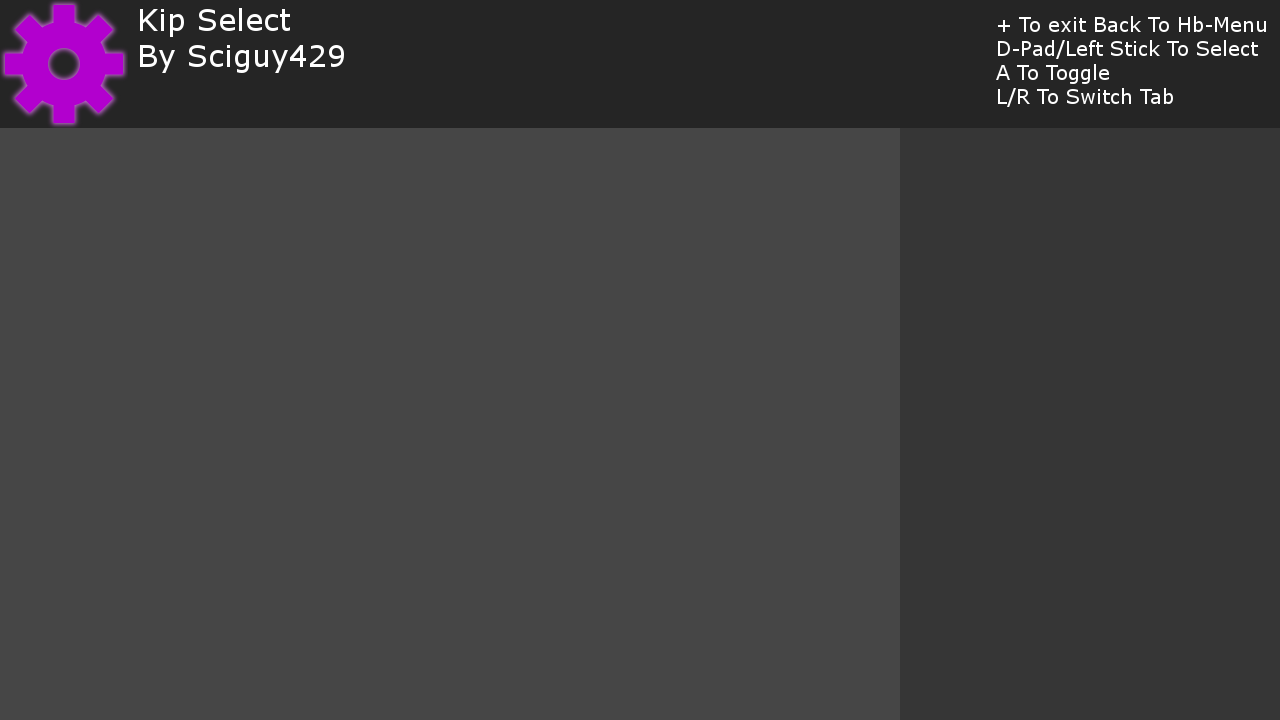
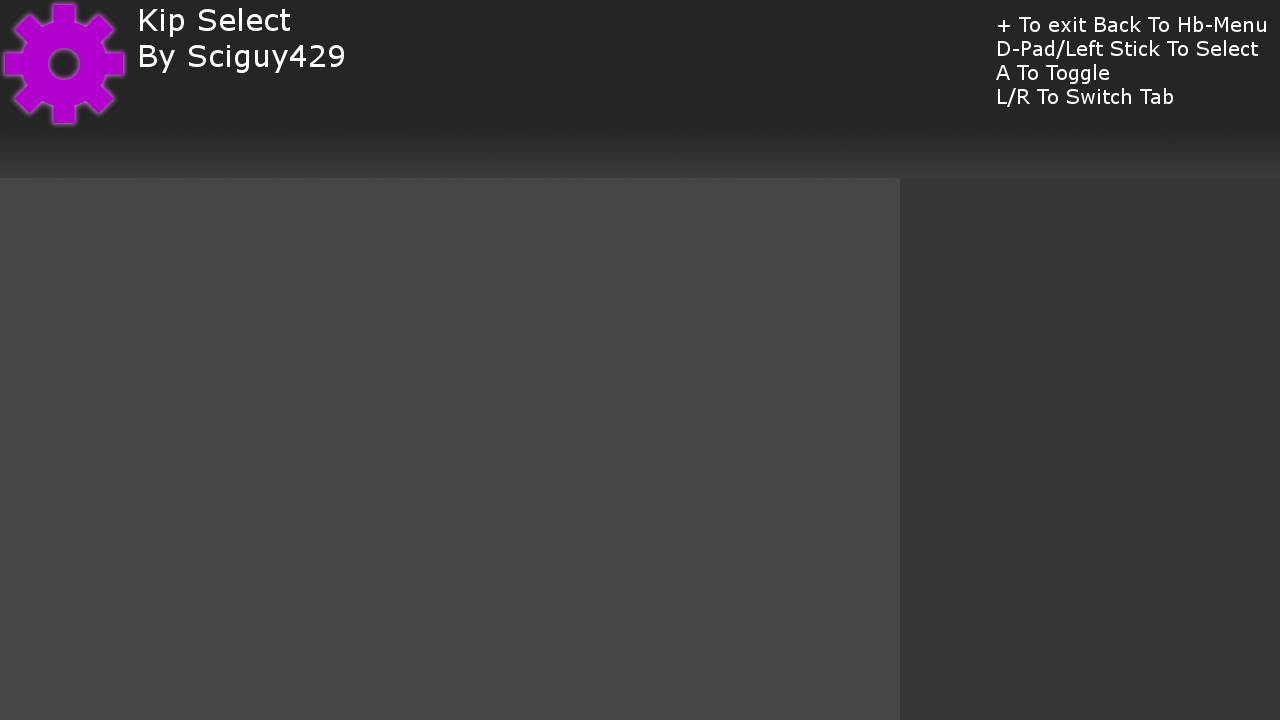
Updated text code

Changed region(s): [[0.0, 0.1528, 0.7188, 0.2139]]

diff --git a/source/main.cpp b/source/main.cpp
@@ -1,7 +1,7 @@
 #include <switch.h>
 #include <string>
 
-//#include "console.h"
+#include "console.h"
 #include "gfx.h"
 #include "kip.h"
 #include "bct.h"
@@ -46,12 +46,11 @@ int main(int argc, char **argv) {
 	gfxBlit(frameBuffer, test, 600, 500, 0);
 	gfxDestroyTexture(test);
 
-	texture *icon = gfxCreateTextureFromPNG("romfs:/png/icon.png");
-	gfxBlit(frameBuffer, icon, 1280 - 256, 720 - 256, 0);
-	gfxDestroyTexture(icon);
-
 	font *fnt = gfxCreateFontFromTTF("romfs:/font/sans.ttf");
-	gfxDrawText(frameBuffer, "This is a test", fnt, 300, 600, 50, RGBA8(255, 255, 255, 0));
+	gfxDrawText(frameBuffer, "Text Test\nNewline Test", fnt, 0, 200, 30, RGBA8(255, 255, 255, 0));
+	gfxDrawText(frameBuffer, "BLUE", fnt, 0, 400, 30, RGBA8(0, 0, 255, 0));
+	gfxDrawText(frameBuffer, "Kips", fnt, 25, 140, 25, RGBA8(255, 255, 255, 0));
+	gfxDrawText(frameBuffer, SSTR("Version " << VERSION_MAJOR << '.' << VERSION_MINOR << '.' << VERSION_MICRO).c_str(), fnt, 140, 80, 15, RGBA8(255, 255, 255, 0));
 	gfxDestroyFont(fnt);
 
 	while (appletMainLoop() && run) {

diff --git a/source/gfx.cpp b/source/gfx.cpp
@@ -1,5 +1,5 @@
 #include <switch.h>
-#include <cstring>
+#include <string>
 #include <stdlib.h>
 #include <png.h>
 
